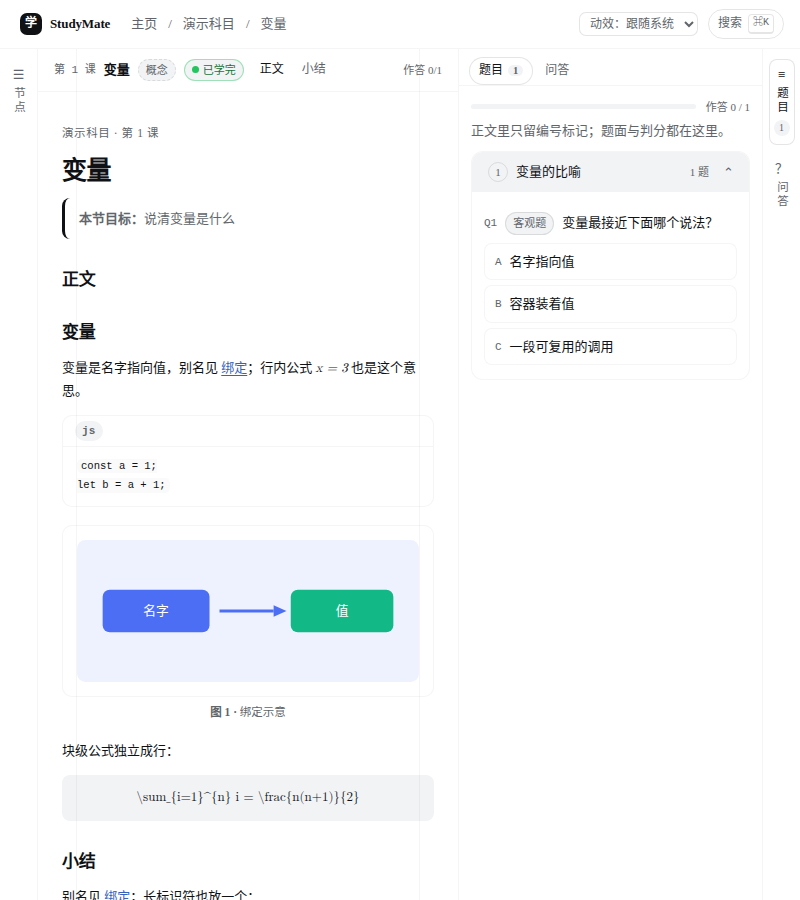
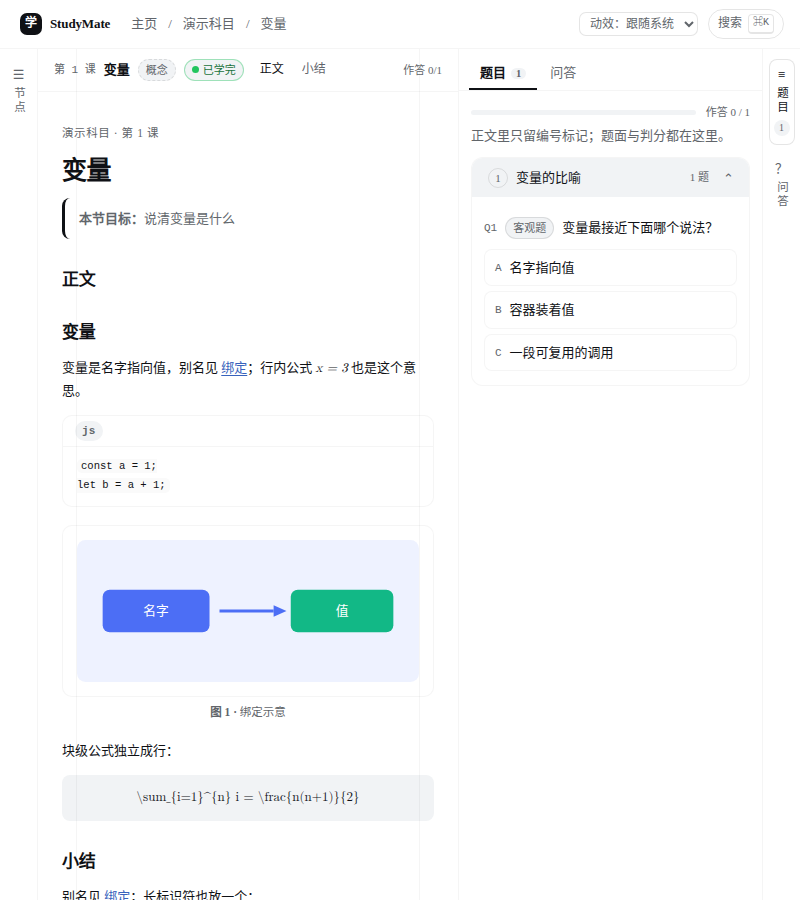
docs(验收): 合入含 #93 的集成分支后，用那一棵树的读数与截图定稿对照表（#94）
#93 在本票第一轮门禁之后才合进集成分支（tip 05513f3 → 4fdfe5f），所以右栏那五条
（US 17/18/19/21/22）先按「当轮未覆盖」记。这一笔做的是收口该做的事：

· `git merge refactor/reading-end-and-ts-engine` 把含 #93 的 tip 合进来；
· 在**那一棵树**上重跑 `npm test`（退出码 0）与 `npm run test:browser`
  （483 条 PASS / 0 条 FAIL，九套逐条通过），把这两条的门禁读数与尾巴写进 §七；
· 用 `summary.json` 里的实测读数填 US 17/18/19/21/22：题型徽标 49×22px（字号 11px，
  不比自己那行字高）、「当前」恰好一组（`current = [no:"2"]`）、右栏 tab 是 `smb-rtab`
  的下划线（选中不换底色）、上次作答 `inPage` 在栏内、右栏 `clientWidth = scrollWidth = 371`
  且 `innerOverflowX = 0`；
· 截图集整体换成这一轮的（新增 `reading-routes-wide-quiz-marked`，#93 的「当前」组
  就靠它看），§一 的说明也跟着改（31 张里入库 7 张，其余写清怎么复现）；
· 真宿主 DPR 那六组在合入前后各量一遍，**逐项相同**——#93 动的是右栏呈现，不动正文列宽，
  这一点写进 §二 免得读的人以为读数是从旧树抄来的。

对照表最终口径：41 条里 40 条已达成、1 条未达成（US 36，去向是宿主侧缺口）。

diff --git a/docs/设计/阅读端呈现验收-2026-10-05.md b/docs/设计/阅读端呈现验收-2026-10-05.md
@@ -15,7 +15,9 @@
   浏览器套件自己的产物在 `.shots/` 下（**被 gitignore**，本地产物），下面每张图都写了它从哪个
   `summary.json` 场景来。
 - 取材口径：四个面各一张**宽档**（1440×960），课件页另给**窄档**（800×900）与**紧档**（700×900，
-  右栏并排装不下那一档）；另有真宿主的两张（见 §二）。
+  右栏并排装不下那一档）、右栏「当前」组一张（#93），另有真宿主的三张（见 §二）。
+- **这些图与下表所有读数都取自最终那一轮**：先把集成分支（含 #93 的 tip `4fdfe5f`）合进本分支，
+  再跑 `npm test` 与 `npm run test:browser`（结果见 §七）。
 
 | 面 | 图 | 来自哪个场景 | 同一场景的机器读数在 |
 | --- | --- | --- | --- |
@@ -26,11 +28,13 @@
 | 课件页·窄档 | [narrow-lesson](../images/验收-2026-10-05/reading-routes-narrow-lesson.png) | `reading-routes-narrow-lesson` | 同上 |
 | 课件页·紧档（右栏盖在正文上） | [tight-lesson](../images/验收-2026-10-05/reading-routes-tight-lesson.png) | `reading-routes-tight-lesson` | 同上 |
 | 真宿主·1440×900·右栏并排 | [realhost-right](../images/验收-2026-10-05/realhost-1440x900-dpr1-right.png) | 本票自己的探针（§二） | 探针打印的读数表 |
+| 课件页·宽档右栏「当前」组（#93） | [wide-quiz-marked](../images/验收-2026-10-05/reading-routes-wide-quiz-marked.png) | `reading-routes-wide-quiz-marked` | 同上 |
 | 真宿主·1440×900·三栏都拉开 | [realhost-both](../images/验收-2026-10-05/realhost-1440x900-dpr1-both.png) | 同上 | 同上 |
+| 真宿主·1440×900·DPR 2（同视口的物理像素对照） | [realhost-dpr2](../images/验收-2026-10-05/realhost-1440x900-dpr2-right.png) | 同上 | 同上 |
 
-套件里另外还有 25 张按档取景的截图（三档 × 四个面 + 亮暗对比度 + 空态/半份数据/几何扫描），
-不逐张入库：它们的结论都以断言读数进了对照表（§三），要看图按 §七 跑一遍即可，那时它们在
-`.shots/reading-routes/` 下。
+套件这一轮一共出了 31 张按档取景的截图（三档 × 四个面 + 三档 × 右栏两场 + 亮暗对比度 +
+空态/半份数据/几何扫描），这里入库 7 张；剩下的不逐张入库——它们的结论都以断言读数进了
+对照表（§三），要看图按 §七 跑一遍即可，那时它们在 `.shots/reading-routes/` 下。
 
 ## 二、真宿主 DPR 实测（结掉 spec 的「待实测」）
 
@@ -45,6 +49,7 @@
 那份 `@yunmiao/studymate` 软链指到本票这棵树（`/home/tofu/studymate-wt/94`），
 再用一个干净 profile 的无头 Chrome 走 CDP 打开它打印出来的带 token URL，点侧栏「学习」进阅读端，
 走进课件页，用 `Emulation.setDeviceMetricsOverride` 设设备像素比后读三个数。
+下表这六组读数在合入 #93 前后各量了一遍，**逐项相同**（#93 只动右栏的呈现，不动正文列宽度）。
 真宿主网格、真 React、真 `lib/client.js` 都是真的；**不真**的只有「显示器与缩放」这一层
 ——无头 Chrome 的 DPR 是我们显式设的，不是这台机器的物理显示器。上一轮那次读数所在的机器 DPR
 无法回溯（那条信息没被记下来，这正是它没定论的原因）。
@@ -125,19 +130,18 @@
 
 | spec 条目 | 归属票 | 落在哪 | 证据 | 状态 |
 | --- | --- | --- | --- | --- |
-| 17 题型徽标贴字，不是一根竖条 | #93 | `lib/client.js` 的题型徽标 | 未跑（#93 未合入）。#93 分支上加的断言是 `三条题各自的题型徽标都在（客观题 / 开放题 / 交付物）`、`题型徽标不是竖条：横着比竖着宽，高也与正文那颗「练习」徽标同档`、`题型徽标是贴字的标签：高 …px，都没超过自己那行字的两倍` | **当轮未覆盖**（见下） |
-| 18 点标记后右栏当前组有标记 | #93 | `lib/client.js` 的「当前」态样式 + 点标记的脚本 | 未跑（#93 未合入）。#93 分支上加的断言是 `还没点标记时，右栏没有任何一组自称「当前」`、`点第 N 组的标记之后，右栏恰好那一组是「当前」`、`「当前」看得见：那一组的边与编号圈都换成了品牌色，别组没有`、`换到下一课：「当前」标记不跟过去` | **当轮未覆盖**（见下） |
-| 19 右栏 tab 选中态与设计一致 | #93 | `lib/client.js` 的右栏 tab（下划线那套，不是左栏的胶囊） | 未跑（#93 未合入）。#93 分支上加的断言是 `右栏 tab 的选中态不是左栏那套胶囊：选中不换底色`、`右栏 tab 的选中态是下划线：底边是品牌色（未选中的不是）`、`右栏两个 tab 恰好选中一个（题目 / 问答）`、`tab 条在内容上方、与内容同宽同起边（并排与抽屉都该如此）` | **当轮未覆盖**（见下） |
+| 17 题型徽标贴字，不是一根竖条 | #93 | `lib/client.js` 的 `.smb-q__kind`（`align-items: flex-start`，不再被弹性行拉高） | `三条题各自的题型徽标都在（客观题 / 开放题 / 交付物）`、`题型徽标是贴字的标签：高 22/22/22px，都没超过自己那行字的两倍`（字号 11px）、`题型徽标不是竖条：横着比竖着宽，高也与正文那颗「练习」徽标同档`；`summary.json` 里三颗徽标都是 `49×22`；截图 `reading-routes-wide-quiz-marked` | 已达成 |
+| 18 点标记后右栏当前组有标记 | #93 | `lib/client.js` 的 `.smb-agroup[aria-current="true"]` + Inspector 的 `focus` 接线 | `还没点标记时，右栏没有任何一组自称「当前」`、`点第 2 组的标记之后，右栏恰好那一组是「当前」`、`「当前」看得见：那一组的边与编号圈都换成了品牌色，别组没有`、`点标记之后那一组落在右栏的可见范围里`、`换到下一课：「当前」标记不跟过去`；`summary.json` 的 `current` 只有一组（`no: "2"`，347×255）；截图 `reading-routes-wide-quiz-marked` | 已达成 |
+| 19 右栏 tab 选中态与设计一致 | #93 | `lib/client.js` 的 `.smb-rtab[aria-selected]`（下划线；左栏那套胶囊规则已删） | `右栏两个 tab 恰好选中一个（题目 / 问答）`、`右栏 tab 的选中态是下划线：底边是品牌色（未选中的不是）`、`右栏 tab 的选中态不是左栏那套胶囊：选中不换底色`、`tab 条在内容上方、与内容同宽同起边`；`summary.json` 里两个 tab 的 class 都是 `smb-rtab`，选中的那个 `borderBottomColor: rgb(15,17,21)` / `backgroundColor: rgba(0,0,0,0)`、未选中的底边透明 | 已达成 |
 | 20 窄到放不下右栏时给解释与出路 | #88 | `lib/client.js` 的降级抽屉 + `reading-routes` | `[700×900] 画布不足：右栏盖在正文上，而不是静默归零`、`抽屉顶上写着为什么`、`出路就是这一栏本身`、`一条「收起」就回得去`；几何扫描 `[700px] 点「题目」有反应（并排，或者盖在正文上并说明为什么）` | 已达成 |
-| 21 上次作答结果看得见 | #93 | `lib/client.js` 右栏的作答回显（能力已有，别丢） | 未跑（#93 未合入）。#93 分支上加的断言是 `上次作答的结果在右栏看得见（来自 attempts/ 的那一条）`、`就地作答之后，那句「上次选了 …」换成刚落下的这一次`、`切回「题目」tab：上次作答那句还在右栏里，当前组也还是那一组` | **当轮未覆盖**（见下） |
-| 22 右栏只纵向滚动条 | #93 | `lib/client.js` 右栏滚动容器 | 未跑（#93 未合入）。#93 分支上加的断言是 `右栏自己不出横向滚动条（内容 … ≤ 可见 …）` | **当轮未覆盖**（见下） |
+| 21 上次作答结果看得见 | #93 | `lib/client.js` 右栏的作答回显（能力已有，别丢） | `上次作答的结果在右栏看得见（来自 attempts/ 的那一条）`、`就地作答之后，那句「上次选了 …」换成刚落下的这一次`、`切回「题目」tab：上次作答那句还在右栏里，当前组也还是那一组`、`切到「问答」tab：选中态跟着换人，面板换成问答`；`summary.json` 的 `review[0] = { text: "上次选了 A，对了", inPane: true }` | 已达成 |
+| 22 右栏只纵向滚动条 | #93 | `lib/client.js` 右栏滚动容器（`overflow-y: auto` / `overflow-x: hidden`） | `右栏自己不出横向滚动条（内容 371 ≤ 可见 371）`、`长题干与长选项都没被裁掉：右边缘都在组卡片的裁切线以内（越过 -12/-60/-73px，都是负的＝没越过）`；`summary.json` 的 `pane.innerOverflowX = 0`、`clientWidth = scrollWidth = 371`；`reading-routes-compare` 里三档都复核一遍 | 已达成 |
 
-**17 / 18 / 19 / 21 / 22 的口径**：集成分支 `refactor/reading-end-and-ts-engine` 在本票跑最终那一轮门禁时
-tip 是 `05513f3`，#93 的分支（`ticket/93-inspector-presentation`，tip `f9b5320`）**还没合进来**。
-所以这 5 条**当轮未覆盖**——上面那三列写的是「合入后哪几条断言会覆盖它们」（从 #93 分支上
-`reading_routes_test.mjs` 新增的 526 行里抄下来的断言名），**不是**本轮的实测读数；表格与截图
-都不冒充它们已经被验过。**去向**：#93 合入集成分支后，在那一棵树上复跑 `npm run test:browser`，
-把这 5 行换成实测读数即可，不是新开票。
+**17 / 18 / 19 / 21 / 22 的口径**：这 5 条当初落在 #93 上，而 #93 晚于本票第一轮门禁才合进集成分支
+（集成分支 tip 从 `05513f3` 走到 `4fdfe5f`）。所以本表**先按「当轮未覆盖」记**，再在本票把
+集成分支合进来（`git merge refactor/reading-end-and-ts-engine`）后，在**那一棵树上**重跑了
+`npm test` 与 `npm run test:browser`——上表这 5 行填的就是重跑之后的实测读数与断言名，
+截图的来源也是那一轮（`reading-routes-wide-quiz-marked` 等）。**没有任何一行用旧树的读数冒充**。
 
 ### 呈现 · 其余三个路由
 
@@ -183,25 +187,24 @@ tip 是 `05513f3`，#93 的分支（`ticket/93-inspector-presentation`，tip `f9
 | # | 条目 | 状态 | 去向 |
 | --- | --- | --- | --- |
 | 1 | spec US 36（工具/面板/slot 守同一条边界） | **未达成** | **宿主侧缺口**：DSH 没有按预设注册工具/面板的接口。不改实现，已由 `test_skill_visibility.mjs` 钉成特征化断言 + 偏离记录（[工程约束](../规范/工程约束.md) §二） |
-| 2 | spec US 17 / 18 / 19 / 21 / 22（右栏题库呈现五条） | **当轮未覆盖** | #93 尚未合入集成分支（本票跑最终门禁时集成分支 tip 是 `05513f3`）；合入后在那棵树上复跑 `npm run test:browser`，用 #93 加的那批断言补这一栏（不是新开票） |
-| 3 | 导出产物**总是**带 KaTeX（无数学式的科目也取 272KB vendor script，只登记不执行） | **未达成** | 已开票 [#96](https://github.com/Miaotofu01/Study-Mate/issues/96)；与 [课件内容格式](../规范/课件内容格式.md) 的「非数学课产物零变化（检查项 11）」不符 |
-| 4 | 真宿主 DPR 实测的**显示器缩放**那一层 | **部分达成** | 三个读数与六组对照量到了（§二）；「跑在哪台显示器、缩放多少」这一层用的是无头 Chrome 显式设的 DPR，不是物理显示器。要把这条钉死，按 §二 末尾那条在真实窗口里再读一次 |
-| 5 | 内联 SVG（`::: svg`）的呈现 | **未覆盖** | 没有任何浏览器套件覆盖（mini-react 整树重建 + effect 不重跑；导出夹具也没有 `::: svg`）。真缺口，**未开票**——建议另开一张：要么补一条夹具（给 mini-react 补 `dangerouslySetInnerHTML` 之外的 SVG 路径），要么在 `lesson_body_test` 里加一场 |
-| 6 | 窄于 696px 画布「两栏都想降级」的区间 | **未覆盖** | 只有 Node 不变量覆盖（`test_client_panes.mjs`），浏览器扫描最窄到 700px |
-| 7 | 上一轮那条「长 URL 溢出 865 → 0px」的 before/after 数字 | **不成立（已纠正）** | 条目 25 本身成立（改后 0px）；测量口径交评审：套件那两条溢出断言对「撑破」不敏感 |
-| 8 | `.smb-crumb` 在文件里有两处规则（中栏那处是遗留） | **未清理** | 记在案；不影响行为（生效的是顶部那处） |
-| 9 | 对比度探针在 `reading_routes_test.mjs` 与 `reading_test.mjs` 各有一份副本 | **已知重复** | 不单独开票，改一处要想着另一处 |
+| 2 | 导出产物**总是**带 KaTeX（无数学式的科目也取 272KB vendor script，只登记不执行） | **未达成** | 已开票 [#96](https://github.com/Miaotofu01/Study-Mate/issues/96)；与 [课件内容格式](../规范/课件内容格式.md) 的「非数学课产物零变化（检查项 11）」不符 |
+| 3 | 真宿主 DPR 实测的**显示器缩放**那一层 | **部分达成** | 三个读数与六组对照量到了（§二）；「跑在哪台显示器、缩放多少」这一层用的是无头 Chrome 显式设的 DPR，不是物理显示器。要把这条钉死，按 §二 末尾那条在真实窗口里再读一次 |
+| 4 | 内联 SVG（`::: svg`）的呈现 | **未覆盖** | 没有任何浏览器套件覆盖（mini-react 整树重建 + effect 不重跑；导出夹具也没有 `::: svg`）。真缺口，**未开票**——建议另开一张：要么补一条夹具（给 mini-react 补 `dangerouslySetInnerHTML` 之外的 SVG 路径），要么在 `lesson_body_test` 里加一场 |
+| 5 | 窄于 696px 画布「两栏都想降级」的区间 | **未覆盖** | 只有 Node 不变量覆盖（`test_client_panes.mjs`），浏览器扫描最窄到 700px |
+| 6 | 上一轮那条「长 URL 溢出 865 → 0px」的 before/after 数字 | **不成立（已纠正）** | 条目 25 本身成立（改后 0px）；测量口径交评审：套件那两条溢出断言对「撑破」不敏感 |
+| 7 | `.smb-crumb` 在文件里有两处规则（中栏那处是遗留） | **未清理** | 记在案；不影响行为（生效的是顶部那处） |
+| 8 | 对比度探针在 `reading_routes_test.mjs` 与 `reading_test.mjs` 各有一份副本 | **已知重复** | 不单独开票，改一处要想着另一处 |
 
 ## 五、诚实边界（这一轮各票自己报出来的，逐条登记）
 
-1. **导出 KaTeX 总是随包**：见 §四 第 3 条（#96）。
+1. **导出 KaTeX 总是随包**：见 §四 第 2 条（#96）。
 2. **「长 URL 溢出 865 → 0px」复现不出**：合并者前后对照是 15px → 0px，865 更像那条 148 字符 URL
    自身的渲染宽度。条目 25 本身成立（改后结果行与列表的横向溢出都是 0px），但那个 before/after
    数字不成立——测量口径交评审。
 3. **#90 为条目 24 改了 Host 半契约**：`lib/library.ts` 的 `buildLibrary` 在「工作区在但零可用科目」
    时从抛错改成给空清单，并改写了 `test_host_library_payload.mjs` 里一条特征化断言。**有意为之**，
    供 code-review 复核（真空态语义、`tools/context.ts` 的提示没丢、断言改写是刻意的而不是为了变绿）。
-4. **内联 SVG（`::: svg`）没有浏览器套件覆盖**，见 §四 第 5 条。
+4. **内联 SVG（`::: svg`）没有浏览器套件覆盖**，见 §四 第 4 条。
 5. **夹具边界（mini-react 不是真 React）**：夹具不把 children 放进 props，`Fold` 折叠块在浏览器套件里
    渲染成空壳；#91 / #92 后来给夹具补了 `dangerouslySetInnerHTML` 与回调 ref 支持。
    `reading_routes_test.mjs` 还把 `ResizeObserver` 换成「只在 observe 时报一次真实尺寸」的垫片
@@ -209,8 +212,8 @@ tip 是 `05513f3`，#93 的分支（`ticket/93-inspector-presentation`，tip `f9
    **哪些面是夹具代替真 React**：四个面的取景、正文与页头、公式、问答引用、导出产物——它们的
    截图与断言都跑在 mini-react 上；真 React 下的对照见 §二 的真宿主截图（真宿主里三栏、公式、
    题目标记都渲染正常）。
-6. **窄于 696px 画布两栏都想降级时只显示「最近要的那一栏」**，见 §四 第 6 条。
-7. **`.smb-crumb` 两处规则**，见 §四 第 8 条。
+6. **窄于 696px 画布两栏都想降级时只显示「最近要的那一栏」**，见 §四 第 5 条。
+7. **`.smb-crumb` 两处规则**，见 §四 第 7 条。
 8. **随包 `katex.min.css` 是机器上那份已裁剪的 0.18.7**（只改了第一行注释）；`katex.min.js` 与两份
    许可证与来源逐字节相同——来源可追溯，已记。
 9. **无头宿主的「产物不许落进构建输入」表里 `.dsh` 换成了 `preset`**：副作用是
@@ -227,16 +230,22 @@ tip 是 `05513f3`，#93 的分支（`ticket/93-inspector-presentation`，tip `f9
 
 ## 六、发现但**没有**修的问题（建议开票）
 
-1. **内联 SVG 的呈现零覆盖**（§四 第 5 条）——建议开一张小票，判据是「`::: svg` 在阅读端渲染出来、
+1. **内联 SVG 的呈现零覆盖**（§四 第 4 条）——建议开一张小票，判据是「`::: svg` 在阅读端渲染出来、
    随列宽流动、暗色下不刺眼」，形态可以是给 `lesson_body_test.mjs` 加一场。
 2. **搜索那两条溢出断言对「撑破」不敏感**（§五 第 2 条）——改前真正判红的是出处那段，而「撑破」
    本身只到 15px。建议把探针换成 `scrollWidth − clientWidth` 的行级量法（本票只记录，不改）。
-3. **`.smb-crumb` 的遗留规则**（§四 第 8 条）——清理时注意顶部那处才生效。
-4. **对比度探针两份副本**（§四 第 9 条）——要么抽成共享夹具，要么在两处都留注释（现在是后者）。
+3. **`.smb-crumb` 的遗留规则**（§四 第 7 条）——清理时注意顶部那处才生效。
+4. **对比度探针两份副本**（§四 第 8 条）——要么抽成共享夹具，要么在两处都留注释（现在是后者）。
 
 ## 七、复现方式
 
-两条门禁都在**本票那棵树**上跑（先 `npm ci`）：
+两条门禁都在**本票那棵树**上跑（先 `npm ci`）；下表是**最终那一轮**的结果——那一轮之前刚
+`git merge refactor/reading-end-and-ts-engine`（把含 #93 的集成分支 tip `4fdfe5f` 合进来）：
+
+| 门禁 | 结果 | 读到的最后几行 |
+| --- | --- | --- |
+| `npm test` | 退出码 0 | `ℹ tests 60` / `ℹ pass 60` / `ℹ fail 0` / `ℹ cancelled 0` / `ℹ skipped 0`（最后一步 `test:static`；core 组：`套件覆盖：84 个文件全部有归属（当前组 core：0 个 Node + 55 个 --test）`） |
+| `npm run test:browser` | 退出码 0 | `PASS` 483 条、`FAIL` 0 条；九个套件逐条 `：通过`（`reading` / `reading-routes` / `lesson-body` / `math` / `ask-quote` / `export-file` / `attempts` / `watch-push` / `lab-run`），每套收尾都是「控制台错误、页面错误、失败请求：全干净」 |
 
 ```bash
 cd /home/tofu/studymate-wt/94
